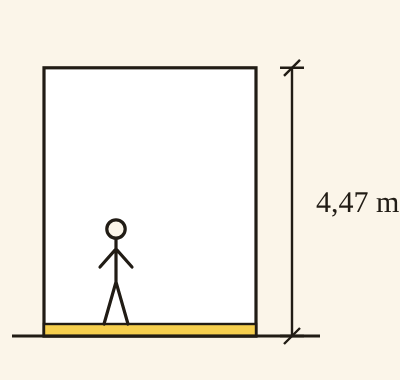
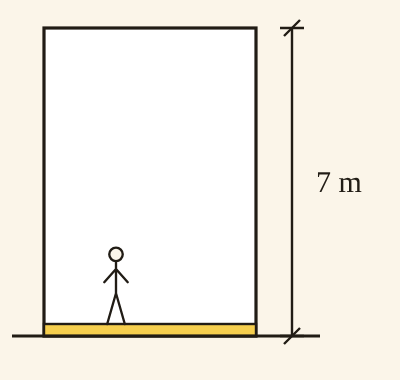
Lettre n° 1 : quatre hauteurs sous plafond et un studio, à la même échelle
Claude-Session: https://claude.ai/code/session_015aKJiDLUy7h6cRtFn1LWuo

diff --git a/emails/avant-premiere-n1.html b/emails/avant-premiere-n1.html
@@ -9,7 +9,7 @@
  @media (max-width:520px){ .pad{padding-left:22px!important;padding-right:22px!important} .titre{font-size:44px!important} .dessin{width:104px!important;padding-right:14px!important} .dessin img{width:104px!important} .cart td{display:block!important;width:auto!important;border-top:0!important} .cart tr:first-child td:first-child{border-top:1px solid #211C15!important} }
 </style></head>
 <body style="margin:0;padding:0;background:#EFE7D6">
-<div style="display:none;max-height:0;overflow:hidden;opacity:0">La visite de la semaine, puis trois biens repérés dans Paris, chacun dessiné à l’échelle.</div>
+<div style="display:none;max-height:0;overflow:hidden;opacity:0">La visite de la semaine, puis quatre hauteurs sous plafond repérées dans Paris, dessinées à la même échelle.</div>
 <table role="presentation" width="100%" cellpadding="0" cellspacing="0" style="background:#EFE7D6"><tr><td align="center" style="padding:24px 0">
 <table role="presentation" width="600" cellpadding="0" cellspacing="0" style="width:100%;max-width:600px;background:#FBF5E9">
 
@@ -33,40 +33,62 @@
  <!-- Déjà en ligne : chaque bien et sa mesure, dessinée à l'échelle -->
  <tr><td class="pad" style="padding:34px 40px 0">
   <div style="font-family:'Newsreader', Georgia, 'Times New Roman', serif;font-size:27px;line-height:1.15;color:#211C15">Déjà en ligne, <span style="font-style:italic;color:#74695A">repérés cette semaine à Paris.</span></div>
-  <div style="font-family:'DM Sans', Helvetica, Arial, sans-serif;font-size:13px;line-height:1.5;color:#74695A;margin-top:8px">Chaque mesure est dessinée à la même échelle. La silhouette fait 1,75 m.</div>
+  <div style="font-family:'DM Sans', Helvetica, Arial, sans-serif;font-size:13px;line-height:1.5;color:#74695A;margin-top:8px">Quatre hauteurs sous plafond et un studio, dessinés à la même échelle. La silhouette fait 1,75 m.</div>
   <table role="presentation" width="100%" cellpadding="0" cellspacing="0" style="margin-top:14px;border-top:1px solid #211C15">
    <tr><td style="padding:26px 0;border-bottom:1px solid #D9CFBC">
   <table role="presentation" width="100%" cellpadding="0" cellspacing="0"><tr>
-   <td width="150" valign="top" class="dessin" style="padding-right:18px"><img src="https://loftissime.fr/lettre/n1/mesure-1.png" width="150" alt="Coupe à l’échelle : une pièce de 4,47 m de haut et une silhouette de 1,75 m" style="display:block;width:150px;height:auto;border:0"></td>
+   <td width="150" valign="top" class="dessin" style="padding-right:18px"><img src="https://loftissime.fr/lettre/n1/mesure-1.png" width="150" alt="Coupe à l’échelle : une pièce de 7 m de haut et une silhouette de 1,75 m" style="display:block;width:150px;height:auto;border:0"></td>
    <td valign="top">
-    <div style="font-family:'Newsreader', Georgia, 'Times New Roman', serif;font-size:40px;line-height:1;color:#211C15">4,47 m</div>
+    <div style="font-family:'Newsreader', Georgia, 'Times New Roman', serif;font-size:40px;line-height:1;color:#211C15">7 m</div>
     <div style="font-family:'Newsreader', Georgia, 'Times New Roman', serif;font-style:italic;font-size:22px;line-height:1.2;color:#74695A;margin-top:4px">sous plafond</div>
-    <div style="font-family:'DM Sans', Helvetica, Arial, sans-serif;font-size:13px;line-height:1.5;color:#211C15;margin-top:12px">Paris 4e, Saint-Merri<span style="color:#74695A">, 98 m² et un souplex de 55 m²</span></div>
-    <div style="font-family:'DM Sans', Helvetica, Arial, sans-serif;font-size:15px;line-height:1.55;color:#4a4238;margin-top:6px">Le rez-de-chaussée d’un hôtel particulier du XVIIIe siècle, sur cour pavée, prolongé par un souplex voûté.</div>
-    <div style="font-family:'Newsreader', Georgia, 'Times New Roman', serif;font-size:21px;line-height:1.2;color:#211C15;margin-top:12px">1 200 000 €</div>
-    <div style="margin-top:6px"><a href="https://www.agencedesenfantsrouges.com/paris-iv-st-merri-appartement-en-rdc-sur-cour-charmante-et-souplex-aux-volumes-exceptionnels/" style="font-family:'DM Sans', Helvetica, Arial, sans-serif;font-size:14px;font-weight:500;color:#211C15;text-decoration:underline;text-underline-offset:4px">Voir l’annonce chez Les Enfants Rouges</a></div>
+    <div style="font-family:'DM Sans', Helvetica, Arial, sans-serif;font-size:13px;line-height:1.5;color:#211C15;margin-top:12px">Paris 15e<span style="color:#74695A">, 135 m²</span></div>
+    <div style="font-family:'DM Sans', Helvetica, Arial, sans-serif;font-size:15px;line-height:1.55;color:#4a4238;margin-top:6px">Un atelier sous verrière au fond d’une cour pavée, avec un séjour de 62 m² et trois chambres.</div>
+    <div style="font-family:'Newsreader', Georgia, 'Times New Roman', serif;font-size:21px;line-height:1.2;color:#211C15;margin-top:12px">1 350 000 €</div>
+    <div style="margin-top:6px"><a href="https://loftissime.fr" style="font-family:'DM Sans', Helvetica, Arial, sans-serif;font-size:14px;font-weight:500;color:#211C15;text-decoration:underline;text-underline-offset:4px">Voir l’annonce chez [agence à confirmer]</a></div>
    </td></tr></table></td></tr>
 <tr><td style="padding:26px 0;border-bottom:1px solid #D9CFBC">
   <table role="presentation" width="100%" cellpadding="0" cellspacing="0"><tr>
-   <td width="150" valign="top" class="dessin" style="padding-right:18px"><img src="https://loftissime.fr/lettre/n1/mesure-2.png" width="150" alt="Coupe à l’échelle : une pièce de 4 m de haut et une silhouette de 1,75 m" style="display:block;width:150px;height:auto;border:0"></td>
+   <td width="150" valign="top" class="dessin" style="padding-right:18px"><img src="https://loftissime.fr/lettre/n1/mesure-2.png" width="150" alt="Coupe à l’échelle : une pièce de 6 m de haut et une silhouette de 1,75 m" style="display:block;width:150px;height:auto;border:0"></td>
    <td valign="top">
-    <div style="font-family:'Newsreader', Georgia, 'Times New Roman', serif;font-size:40px;line-height:1;color:#211C15">4 m</div>
-    <div style="font-family:'Newsreader', Georgia, 'Times New Roman', serif;font-style:italic;font-size:22px;line-height:1.2;color:#74695A;margin-top:4px">sous plafond, au dernier étage</div>
-    <div style="font-family:'DM Sans', Helvetica, Arial, sans-serif;font-size:13px;line-height:1.5;color:#211C15;margin-top:12px">Paris 18e, Abbesses<span style="color:#74695A">, 50 m²</span></div>
-    <div style="font-family:'DM Sans', Helvetica, Arial, sans-serif;font-size:15px;line-height:1.55;color:#4a4238;margin-top:6px">Un atelier d’artiste à rénover, avec sa grande verrière sur rue et une mezzanine.</div>
-    <div style="font-family:'Newsreader', Georgia, 'Times New Roman', serif;font-size:21px;line-height:1.2;color:#211C15;margin-top:12px">640 000 €</div>
-    <div style="margin-top:6px"><a href="https://www.immopolis.fr/annonce/87165028-fr/" style="font-family:'DM Sans', Helvetica, Arial, sans-serif;font-size:14px;font-weight:500;color:#211C15;text-decoration:underline;text-underline-offset:4px">Voir l’annonce chez Immopolis</a></div>
+    <div style="font-family:'Newsreader', Georgia, 'Times New Roman', serif;font-size:40px;line-height:1;color:#211C15">6 m</div>
+    <div style="font-family:'Newsreader', Georgia, 'Times New Roman', serif;font-style:italic;font-size:22px;line-height:1.2;color:#74695A;margin-top:4px">sous plafond</div>
+    <div style="font-family:'DM Sans', Helvetica, Arial, sans-serif;font-size:13px;line-height:1.5;color:#211C15;margin-top:12px">Paris 16e, Muette<span style="color:#74695A">, 85,56 m²</span></div>
+    <div style="font-family:'DM Sans', Helvetica, Arial, sans-serif;font-size:15px;line-height:1.55;color:#4a4238;margin-top:6px">Un atelier d’artiste dans un immeuble Art déco, sur une voie privée, avec sa propre entrée par la cour.</div>
+    <div style="font-family:'Newsreader', Georgia, 'Times New Roman', serif;font-size:21px;line-height:1.2;color:#211C15;margin-top:12px">1 195 000 €</div>
+    <div style="margin-top:6px"><a href="https://loftissime.fr" style="font-family:'DM Sans', Helvetica, Arial, sans-serif;font-size:14px;font-weight:500;color:#211C15;text-decoration:underline;text-underline-offset:4px">Voir l’annonce chez De Ferla [lien à trouver]</a></div>
    </td></tr></table></td></tr>
 <tr><td style="padding:26px 0;border-bottom:1px solid #D9CFBC">
   <table role="presentation" width="100%" cellpadding="0" cellspacing="0"><tr>
-   <td width="150" valign="top" class="dessin" style="padding-right:18px"><img src="https://loftissime.fr/lettre/n1/mesure-3.png" width="150" alt="Plan à l’échelle : une terrasse de 18,5 m² avec une table et une silhouette" style="display:block;width:150px;height:auto;border:0"></td>
+   <td width="150" valign="top" class="dessin" style="padding-right:18px"><img src="https://loftissime.fr/lettre/n1/mesure-3.png" width="150" alt="Coupe à l’échelle : une pièce de 5,20 m de haut et une silhouette de 1,75 m" style="display:block;width:150px;height:auto;border:0"></td>
    <td valign="top">
-    <div style="font-family:'Newsreader', Georgia, 'Times New Roman', serif;font-size:40px;line-height:1;color:#211C15">18,5 m²</div>
-    <div style="font-family:'Newsreader', Georgia, 'Times New Roman', serif;font-style:italic;font-size:22px;line-height:1.2;color:#74695A;margin-top:4px">de terrasse sur cour</div>
-    <div style="font-family:'DM Sans', Helvetica, Arial, sans-serif;font-size:13px;line-height:1.5;color:#211C15;margin-top:12px">Paris 11e, canal Saint-Martin<span style="color:#74695A">, 92 m²</span></div>
-    <div style="font-family:'DM Sans', Helvetica, Arial, sans-serif;font-size:15px;line-height:1.55;color:#4a4238;margin-top:6px">Un duplex dans une ancienne fabrique de cravates réhabilitée, deux chambres.</div>
-    <div style="font-family:'Newsreader', Georgia, 'Times New Roman', serif;font-size:21px;line-height:1.2;color:#211C15;margin-top:12px">1 295 000 €</div>
-    <div style="margin-top:6px"><a href="https://www.agencedesenfantsrouges.com/paris-11eme-duplex-dexception-ancienne-fabrique-rehabilitee-commercialite/" style="font-family:'DM Sans', Helvetica, Arial, sans-serif;font-size:14px;font-weight:500;color:#211C15;text-decoration:underline;text-underline-offset:4px">Voir l’annonce chez Les Enfants Rouges</a></div>
+    <div style="font-family:'Newsreader', Georgia, 'Times New Roman', serif;font-size:40px;line-height:1;color:#211C15">5,20 m</div>
+    <div style="font-family:'Newsreader', Georgia, 'Times New Roman', serif;font-style:italic;font-size:22px;line-height:1.2;color:#74695A;margin-top:4px">sous plafond</div>
+    <div style="font-family:'DM Sans', Helvetica, Arial, sans-serif;font-size:13px;line-height:1.5;color:#211C15;margin-top:12px">Paris 19e, Buttes-Chaumont<span style="color:#74695A">, 147 m²</span></div>
+    <div style="font-family:'DM Sans', Helvetica, Arial, sans-serif;font-size:15px;line-height:1.55;color:#4a4238;margin-top:6px">Un loft en duplex, une baie d’atelier plein ouest et 37 m² de terrasse.</div>
+    <div style="font-family:'Newsreader', Georgia, 'Times New Roman', serif;font-size:21px;line-height:1.2;color:#211C15;margin-top:12px">1 195 000 €</div>
+    <div style="margin-top:6px"><a href="https://loftissime.fr" style="font-family:'DM Sans', Helvetica, Arial, sans-serif;font-size:14px;font-weight:500;color:#211C15;text-decoration:underline;text-underline-offset:4px">Voir l’annonce chez Novestia [lien à trouver]</a></div>
+   </td></tr></table></td></tr>
+<tr><td style="padding:26px 0;border-bottom:1px solid #D9CFBC">
+  <table role="presentation" width="100%" cellpadding="0" cellspacing="0"><tr>
+   <td width="150" valign="top" class="dessin" style="padding-right:18px"><img src="https://loftissime.fr/lettre/n1/mesure-4.png" width="150" alt="Coupe à l’échelle : une pièce de 4,5 m de haut et une silhouette de 1,75 m" style="display:block;width:150px;height:auto;border:0"></td>
+   <td valign="top">
+    <div style="font-family:'Newsreader', Georgia, 'Times New Roman', serif;font-size:40px;line-height:1;color:#211C15">4,5 m</div>
+    <div style="font-family:'Newsreader', Georgia, 'Times New Roman', serif;font-style:italic;font-size:22px;line-height:1.2;color:#74695A;margin-top:4px">sous plafond, au neuvième étage</div>
+    <div style="font-family:'DM Sans', Helvetica, Arial, sans-serif;font-size:13px;line-height:1.5;color:#211C15;margin-top:12px">Paris 18e, Montmartre<span style="color:#74695A">, 78 m²</span></div>
+    <div style="font-family:'DM Sans', Helvetica, Arial, sans-serif;font-size:15px;line-height:1.55;color:#4a4238;margin-top:6px">Un atelier d’artiste au sommet d’un immeuble des années 20, seul à l’étage, avec dix-huit fenêtres.</div>
+    <div style="font-family:'Newsreader', Georgia, 'Times New Roman', serif;font-size:21px;line-height:1.2;color:#211C15;margin-top:12px">1 080 000 €</div>
+    <div style="margin-top:6px"><a href="https://engelvoelkers.com/fr/en/exposes/2f46b969-bc13-557c-940f-4ff77d72d0c8" style="font-family:'DM Sans', Helvetica, Arial, sans-serif;font-size:14px;font-weight:500;color:#211C15;text-decoration:underline;text-underline-offset:4px">Voir l’annonce chez Engel & Völkers</a></div>
+   </td></tr></table></td></tr>
+<tr><td style="padding:26px 0;border-bottom:1px solid #D9CFBC">
+  <table role="presentation" width="100%" cellpadding="0" cellspacing="0"><tr>
+   <td width="150" valign="top" class="dessin" style="padding-right:18px"><img src="https://loftissime.fr/lettre/n1/mesure-5.png" width="150" alt="Plan à l’échelle : un studio de 35,92 m² avec une table et une silhouette" style="display:block;width:150px;height:auto;border:0"></td>
+   <td valign="top">
+    <div style="font-family:'DM Sans', Helvetica, Arial, sans-serif;font-size:13px;color:#74695A;margin-bottom:6px">Sous 500 000 €</div><div style="font-family:'Newsreader', Georgia, 'Times New Roman', serif;font-size:40px;line-height:1;color:#211C15">35,92 m²</div>
+    <div style="font-family:'Newsreader', Georgia, 'Times New Roman', serif;font-style:italic;font-size:22px;line-height:1.2;color:#74695A;margin-top:4px">et une terrasse, au dernier étage</div>
+    <div style="font-family:'DM Sans', Helvetica, Arial, sans-serif;font-size:13px;line-height:1.5;color:#211C15;margin-top:12px">Paris 19e, Buttes-Chaumont<span style="color:#74695A">, studio</span></div>
+    <div style="font-family:'DM Sans', Helvetica, Arial, sans-serif;font-size:15px;line-height:1.55;color:#4a4238;margin-top:6px">Une seule pièce sous le ciel, prolongée par sa terrasse.</div>
+    <div style="font-family:'Newsreader', Georgia, 'Times New Roman', serif;font-size:21px;line-height:1.2;color:#211C15;margin-top:12px">369 000 €</div>
+    <div style="margin-top:6px"><a href="https://www.agencedesenfantsrouges.com/paris-19eme-buttes-chaumont-charmant-studio-avec-terrasse-au-dernier-etage/" style="font-family:'DM Sans', Helvetica, Arial, sans-serif;font-size:14px;font-weight:500;color:#211C15;text-decoration:underline;text-underline-offset:4px">Voir l’annonce chez Les Enfants Rouges</a></div>
    </td></tr></table></td></tr>
    <tr><td style="padding:22px 0;border-bottom:1px solid #D9CFBC"><table role="presentation" width="100%" cellpadding="0" cellspacing="0"><tr>
    <td width="88" valign="top" style="padding-right:18px"><a href="https://loftissime.fr/guide/acheter-un-souplex"><img src="https://loftissime.fr/lettre/n1/art-1.png" width="88" height="88" alt="" style="display:block;border:1px solid #211C15;border-radius:8px"></a></td>
